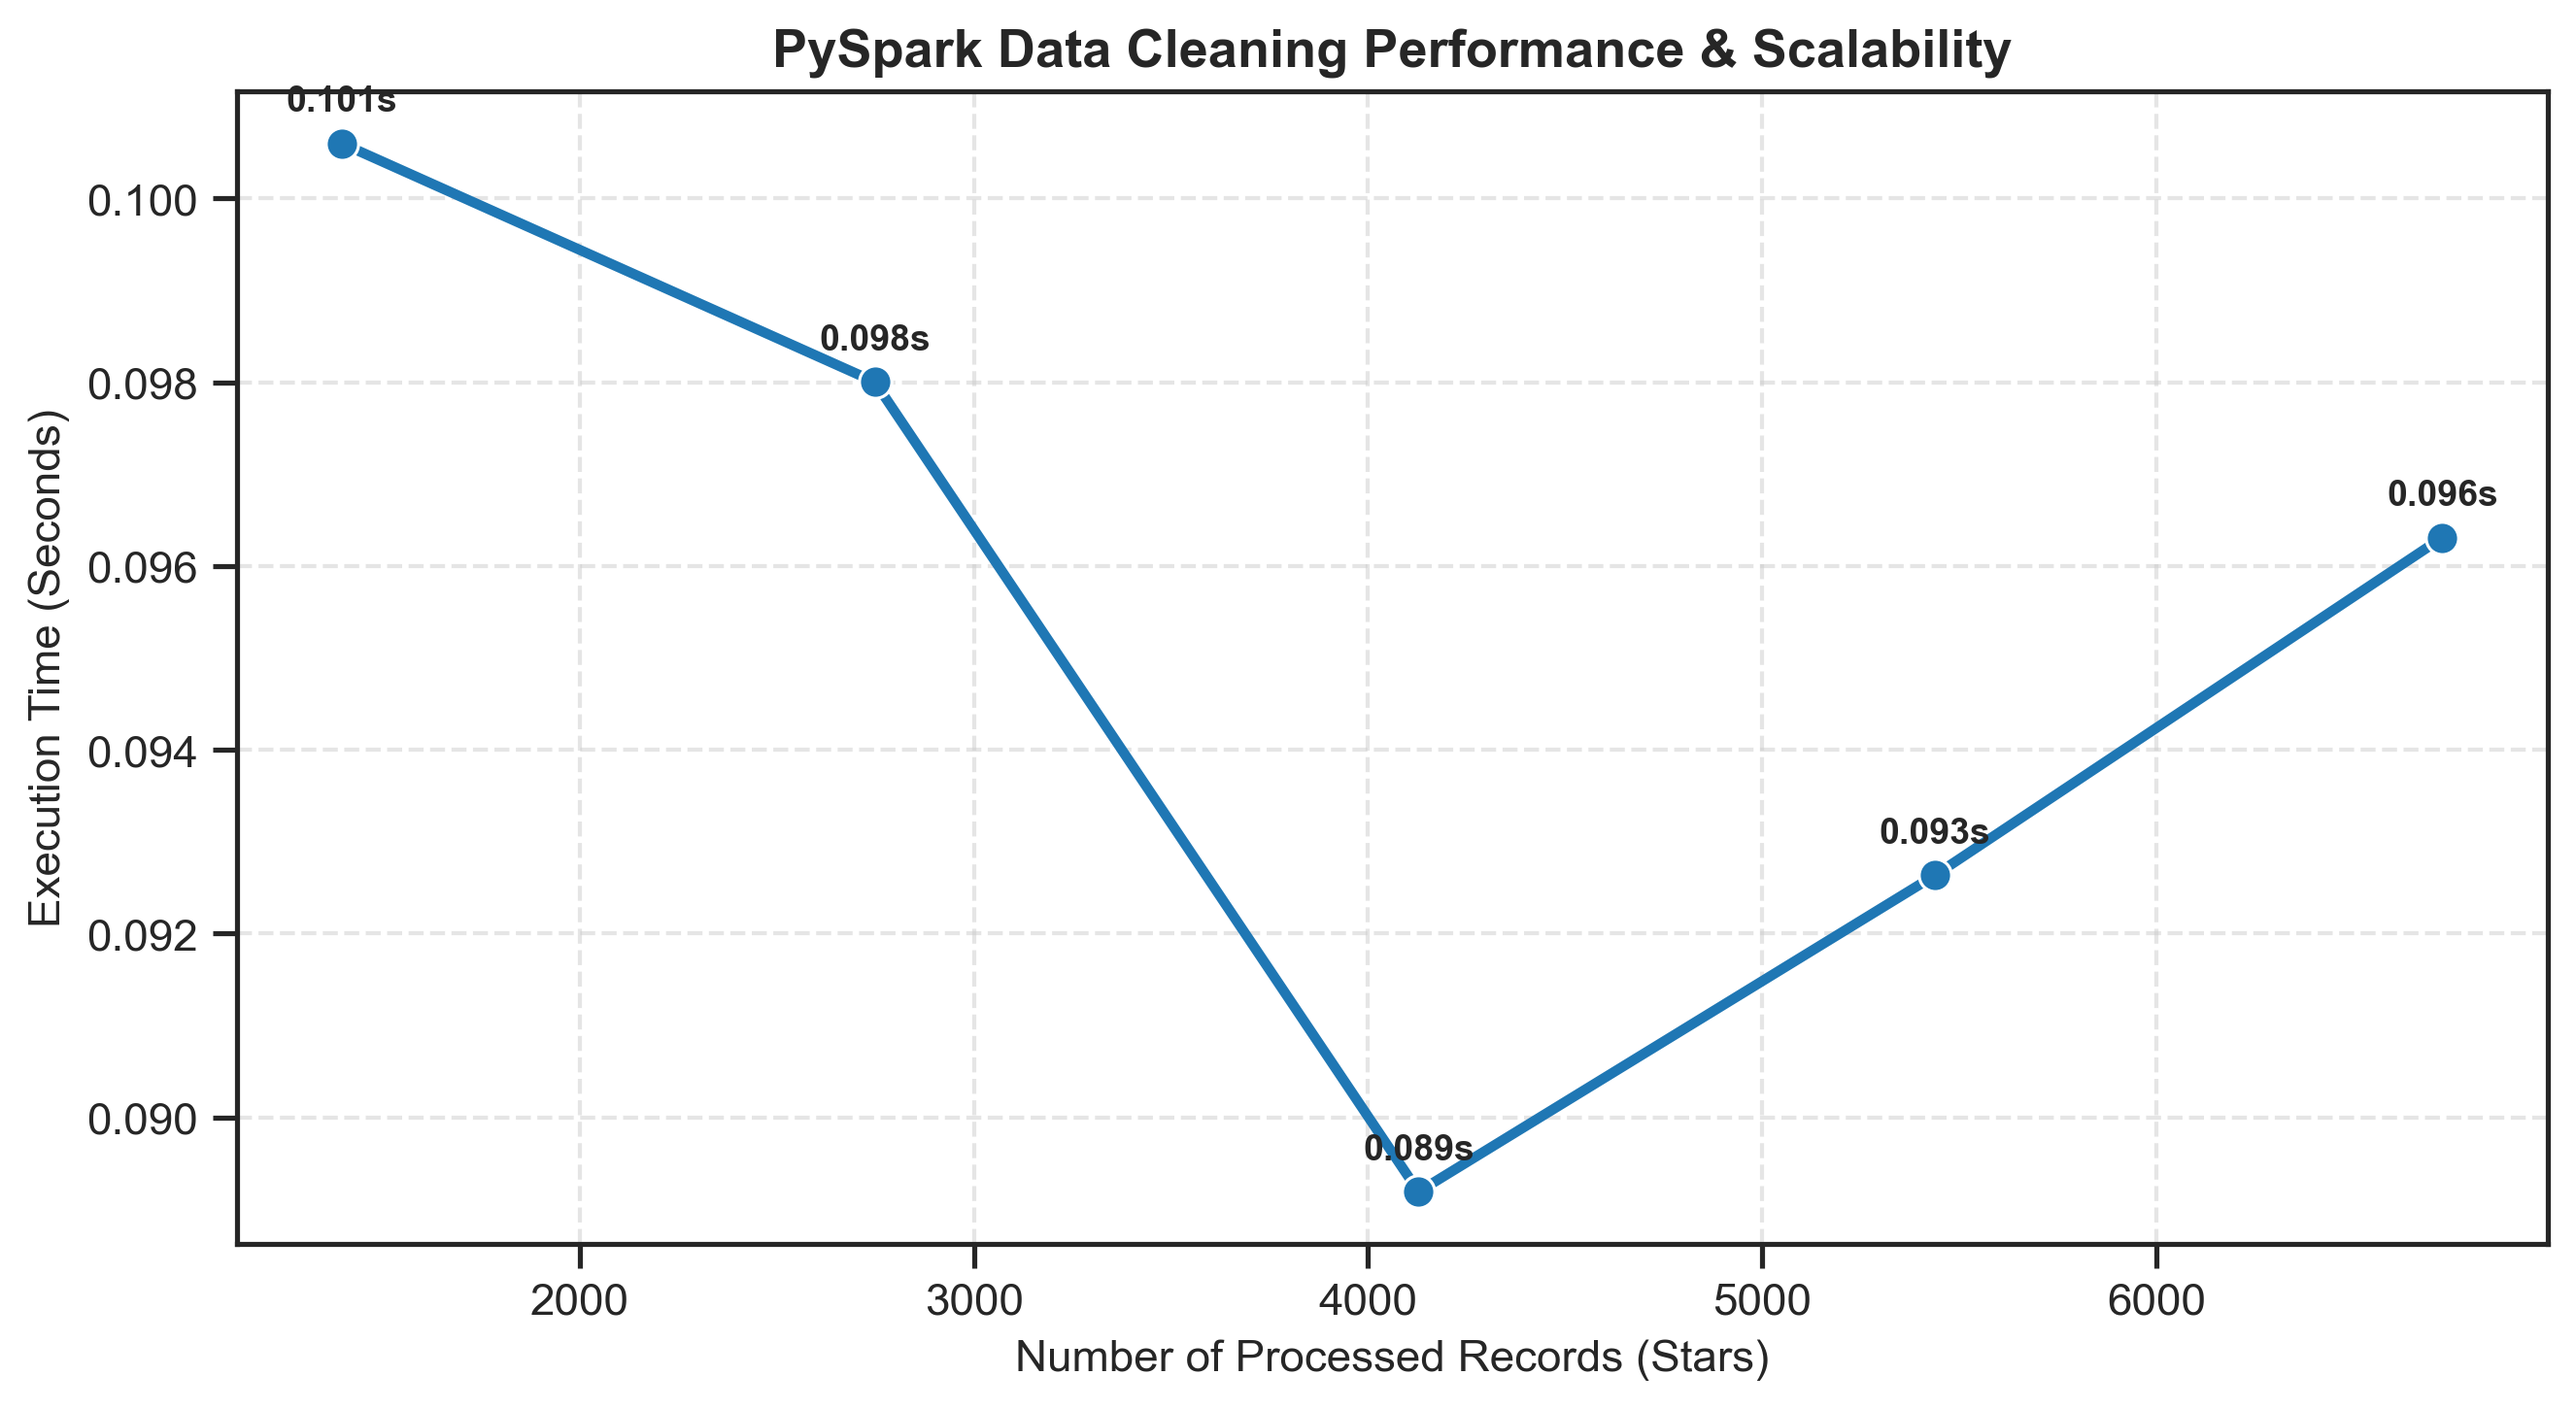
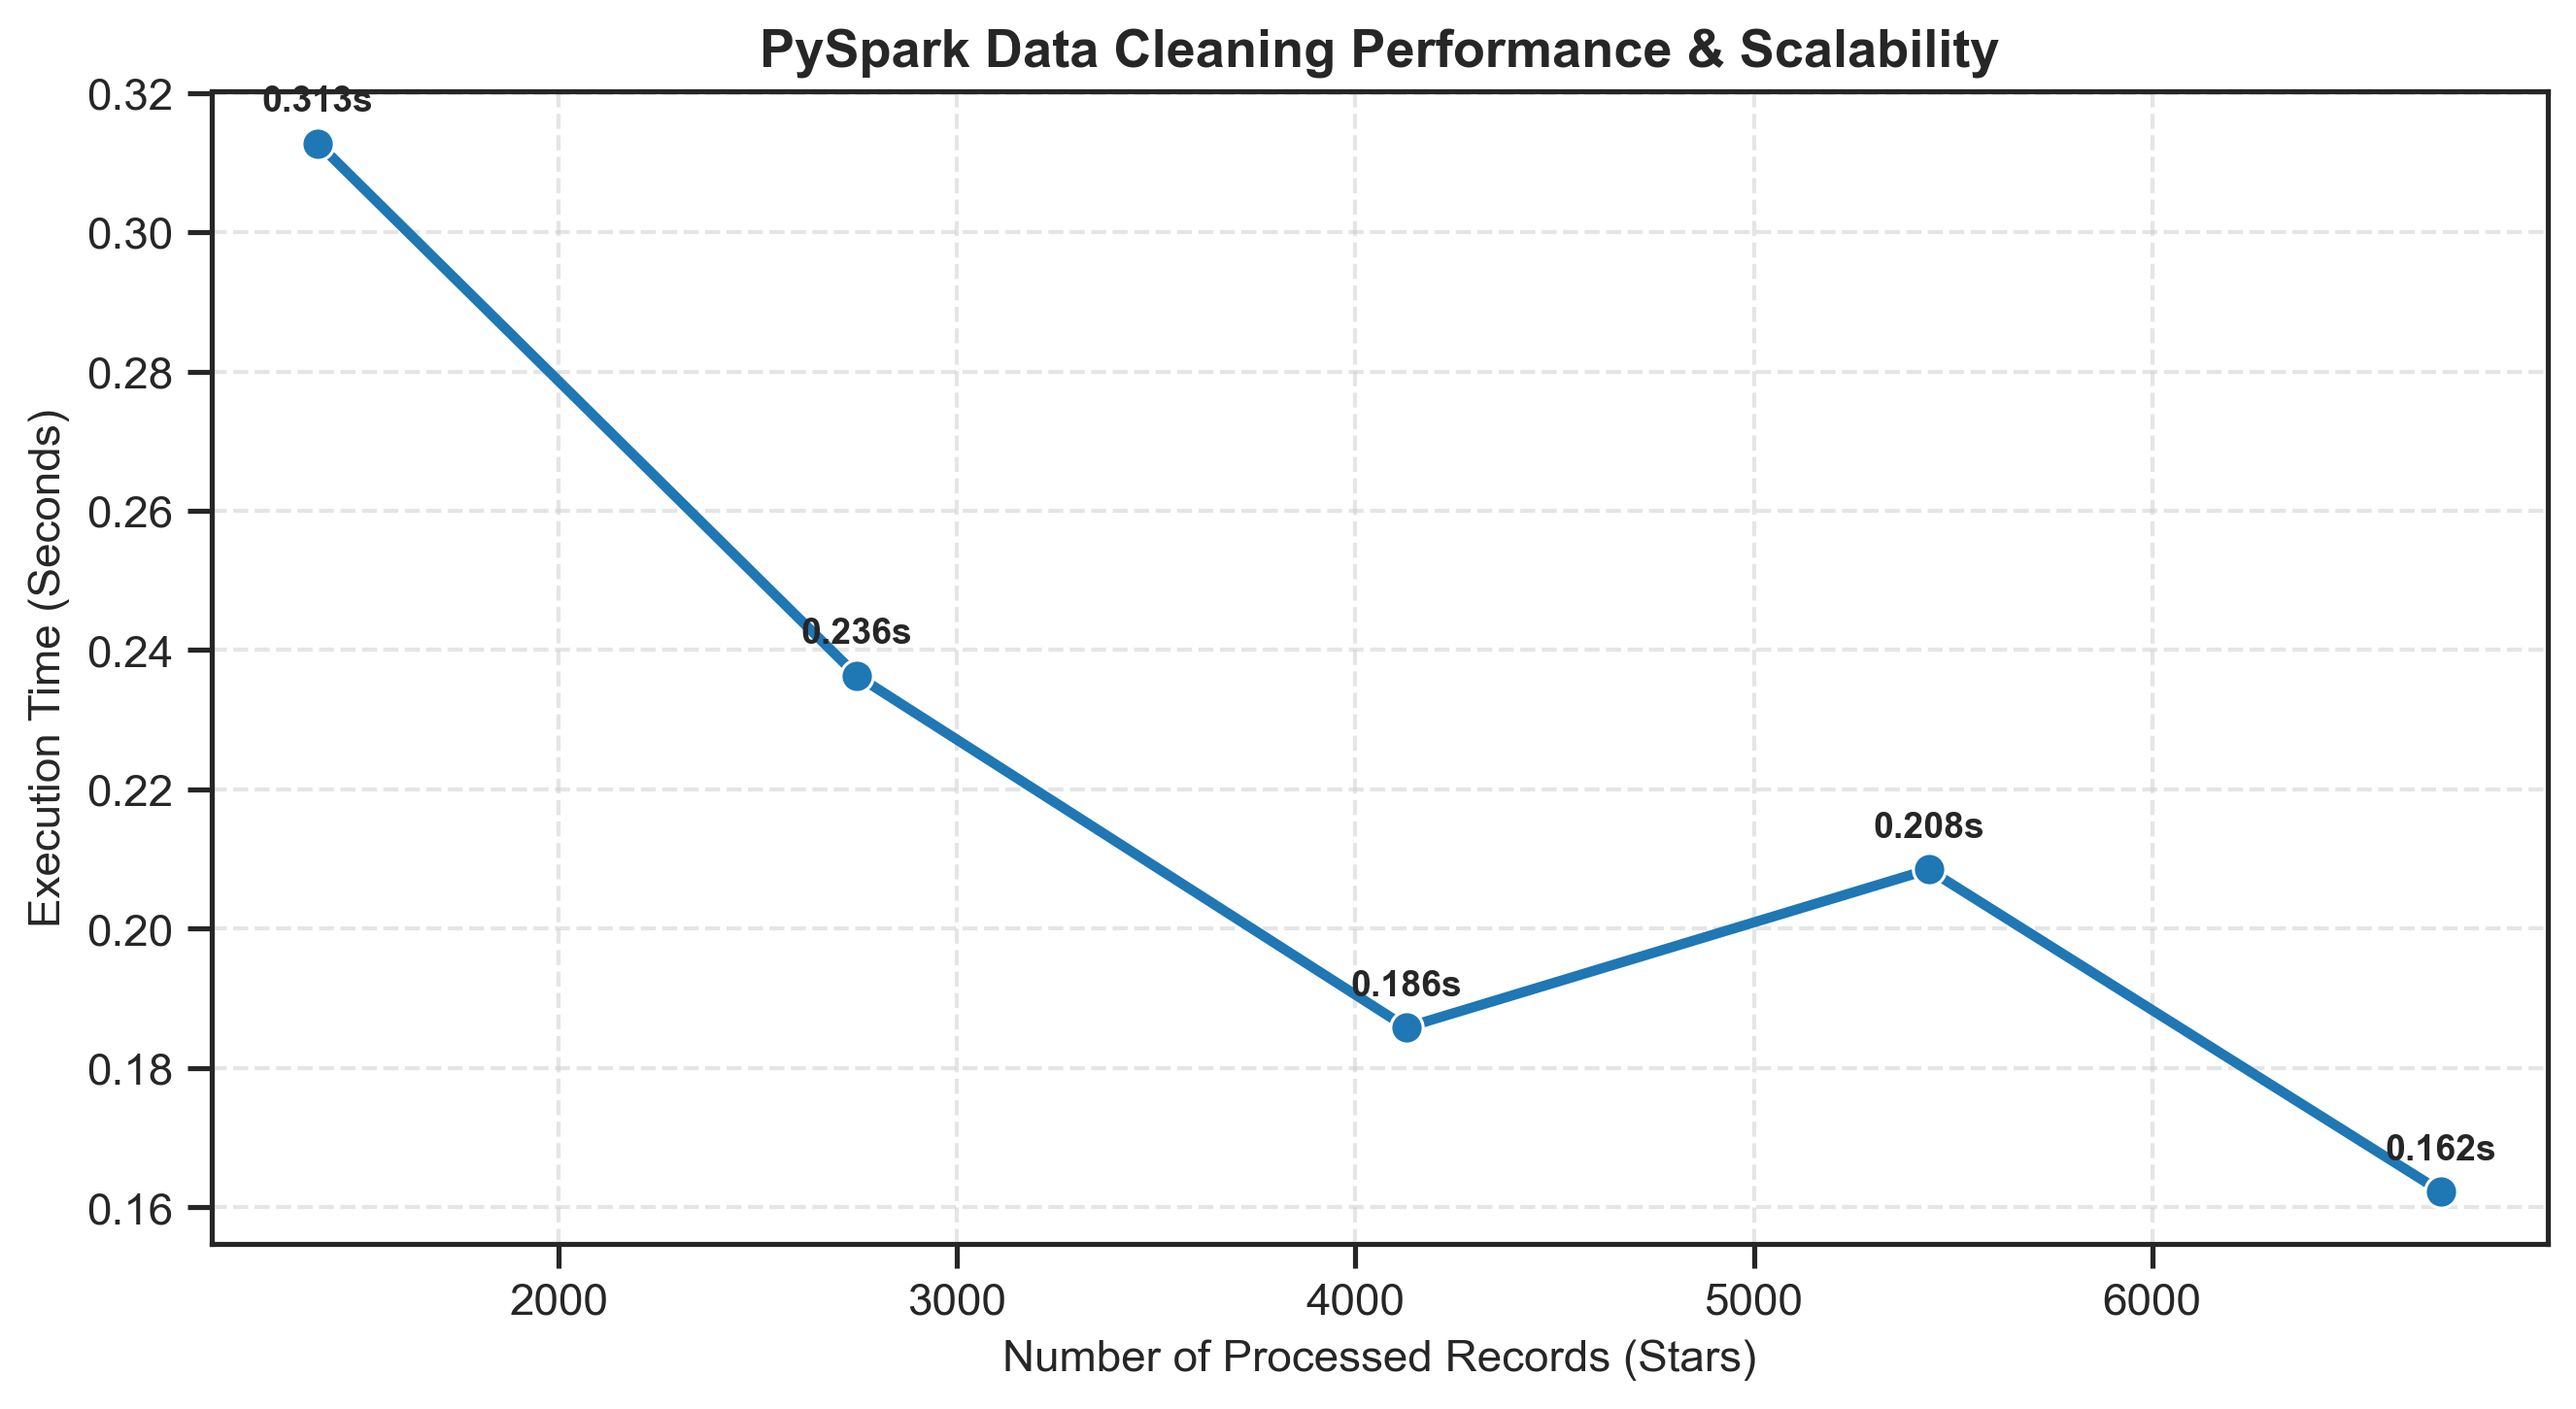
fetch_data.py fix return

diff --git a/gaia_pipeline/fetch_data.py b/gaia_pipeline/fetch_data.py
@@ -1,63 +1,109 @@
+import os
 import time
+import logging
+from pathlib import Path
+from typing import Optional
+
+import pandas as pd
 import requests
 from astroquery.gaia import Gaia
 
-def fetch_cluster_data(ra, dec, radius, limit=5000):
+logger = logging.getLogger(__name__)
+
+
+def fetch_cluster_data(
+    ra: float,
+    dec: float,
+    radius: float,
+    limit: int = 50000,
+    output_path: str = "data/raw/pleiades_chunks.parquet",
+    mag_bins: Optional[list] = None,
+    retries: int = 3,
+    initial_delay: float = 5.0,
+) -> str:
     """
-    Fetches Gaia DR3 data in magnitude chunks with automatic retry on server errors.
+    Fetch Gaia DR3 data around a sky position in magnitude chunks,
+    with automatic retry on server errors. Saves the result as Parquet.
+
+    Parameters
+    ----------
+    ra, dec : float
+        Center coordinates in degrees (ICRS).
+    radius : float
+        Search radius in degrees.
+    limit : int
+        Maximum number of sources per magnitude bin.
+    output_path : str
+        Where to save the resulting Parquet file.
+    mag_bins : list of tuples, optional
+        Magnitude bins to query. Defaults to [(10, 16), (16, 18), (18, 20)].
+    retries : int
+        Number of retries per chunk.
+    initial_delay : float
+        Initial delay before retry (doubles on each attempt).
+
+    Returns
+    -------
+    str
+        Path to the saved Parquet file.
+
+    Raises
+    ------
+    RuntimeError
+        If no data could be fetched.
     """
-    mag_bins = [
-        (10.0, 16.0),
-        (16.0, 18.0),
-        (18.0, 20.0)
-    ]
-    
+    if mag_bins is None:
+        mag_bins = [(10.0, 16.0), (16.0, 18.0), (18.0, 20.0)]
+
     all_chunks = []
-    
+
     for min_mag, max_mag in mag_bins:
-        print(f"Fetching massive chunk: Magnitude between {min_mag} and {max_mag}...")
-        
+        logger.info(f"Fetching chunk: {min_mag} <= G <= {max_mag}")
+
         adql_query = f"""
-            SELECT TOP {limit} source_id, ra, dec, parallax, pmra, pmdec, bp_rp, phot_g_mean_mag
+            SELECT TOP {limit} source_id, ra, dec, parallax,
+                   pmra, pmdec, bp_rp, phot_g_mean_mag
             FROM gaiadr3.gaia_source
-            WHERE CONTAINS(POINT('ICRS', gaiadr3.gaia_source.ra, gaiadr3.gaia_source.dec), 
-                           CIRCLE('ICRS', {ra}, {dec}, {radius})) = 1
+            WHERE CONTAINS(
+                POINT('ICRS', gaiadr3.gaia_source.ra, gaiadr3.gaia_source.dec),
+                CIRCLE('ICRS', {ra}, {dec}, {radius})
+            ) = 1
               AND phot_g_mean_mag BETWEEN {min_mag} AND {max_mag}
         """
-        # Retry Mechanism When an HTTPError 500 or Any Temporary Outage Occurs
-        success = False
-        retries = 3
-        delay = 5
-        
+
+        delay = initial_delay
         for attempt in range(retries):
             try:
                 job = Gaia.launch_job_async(adql_query)
-                r = job.get_results()
-                df_chunk = r.to_pandas()
-                all_chunks.append(df_chunk)
-                success = True
-                print(f"  -> Successfully fetched {len(df_chunk)} records.")
+                result = job.get_results()
+                all_chunks.append(result.to_pandas())
+                logger.info(f"  -> {len(result)} records fetched.")
                 break
             except requests.exceptions.HTTPError as e:
-                print(f"  -> Server error (Attempt {attempt+1}/{retries}): {e}. Retrying in {delay} seconds...")
+                logger.warning(
+                    f"  -> HTTP error (attempt {attempt + 1}/{retries}): {e}. "
+                    f"Retrying in {delay}s..."
+                )
                 time.sleep(delay)
-                delay *= 2  
+                delay *= 2
             except Exception as e:
-                print(f"  -> Unexpected error: {e}")
-                break
-                
-        if not success:
-            print("  -> Warning: Could not fetch this chunk after multiple retries. Moving on...")
-        
-        time.sleep(3) 
-        
-    if all_chunks:
-        import pandas as pd
-        final_df = pd.concat(all_chunks, ignore_index=True)
-        output_file = "pleiades_chunks.parquet"
-        final_df.to_parquet(output_file, index=False)
-        print(f"=== All chunks fetched and saved to {output_file} successfully! ===")
-        return final_df
-    else:
-        print("=== No data fetched. ===")
-        return None
+                logger.error(f"  -> Unexpected error: {e}")
+                raise
+
+        time.sleep(3)  # be polite to the Gaia archive
+
+    if not all_chunks:
+        raise RuntimeError(
+            "No data fetched from Gaia. Check your query and network connection."
+        )
+
+    final_df = pd.concat(all_chunks, ignore_index=True)
+
+    # Ensure output directory exists
+    output_path = Path(output_path)
+    output_path.parent.mkdir(parents=True, exist_ok=True)
+
+    final_df.to_parquet(output_path, index=False)
+    logger.info(f"Saved {len(final_df)} records to {output_path}")
+
+    return str(output_path)

diff --git a/README.md b/README.md
@@ -30,10 +30,9 @@ An end-to-end Big Data & Machine Learning pipeline designed to query, clean, and
 
 ```text
 gaia_pyspark_pipeline/
-├── config/                   # Configuration files
 ├── examples/
 │   └── run_pipeline.py       # Main execution entry point
-|    | demo_pleiades.ipynb      #demonstrates the end-to-end workflow of gaia_pyspark_pipeline 
+|   └── demo.ipynb      #demonstrates the end-to-end workflow of gaia_pyspark_pipeline 
 
 ├── gaia_pipeline/
 │   ├── __init__.py
@@ -43,13 +42,17 @@ gaia_pyspark_pipeline/
 │   └── spark_cleaner.py      # PySpark pipeline for data cleaning & benchmarking
 ├── tests/
 │   └── test_pipeline.py      # Unit tests for pipeline components
+
+├── docs/                 # Documentation files
+│   └── index.md
+
 ├── .gitattributes
 ├── LICENSE                   # Project license
 ├── paper.bib                 # Bibliography for academic paper
 ├── paper.md                  # JOSS paper manuscript
 ├── README.md                 # Project documentation
 └── requirements.txt          # Project dependencies
-
+└── CONTRIBUTING.md           # Contributing to gaia_pyspark_pipeline
 ```
 
 ---
@@ -115,7 +118,7 @@ pip install -r requirements.txt
 * **Color-Magnitude Diagram (CMD):** Confirms the identified members form a clear **Main Sequence** evolutionary track.
 * **Visual Validation:** Verified spatial distribution of Pleiades cluster members using Aladin Desktop.
 * **Performance Benchmark:** Measures PySpark data cleaning execution time across different subsample ratios.
-![Kinematic & Photometric Verification](examples/pleiades_cluster_plot.png)
+![Kinematic & Photometric Verification](images_results/pleiades_cluster_plot.png)
 
 
 ### 2. PySpark Scalability Benchmark
@@ -124,7 +127,7 @@ pip install -r requirements.txt
 
 Measures PySpark data cleaning execution time across different subsample ratios:
 
-![PySpark Execution Time Benchmark](examples/pyspark_performance.png)
+![PySpark Execution Time Benchmark](images_results/pyspark_performance.png)
 
 
 ## Visualizing Results in Aladin Desktop
@@ -134,6 +137,14 @@ Here is the processed Pleiades cluster dataset visualized over the real sky back
 
 ---
 
+## 📖 Documentation
+Detailed documentation for each component of the pipeline is available in the [docs/](docs/) directory:
+* [Fetch Data](docs/fetch_data.md) - Queries Gaia DR3 using ADQL.
+* [Spark Cleaner](docs/spark_cleaner.md) - PySpark data cleaning pipeline.
+* [Clustering](docs/clustering.md) - DBSCAN machine learning & astrophysical plots.
+* [Demo Workflow](docs/demo.md) - End-to-end execution guide.
+
+  
 ## 📝 License
 
 This project is licensed under the MIT License - see the [LICENSE](https://github.com/tghred/gaia_pyspark_pipeline/blob/main/LICENSE) file for details.
